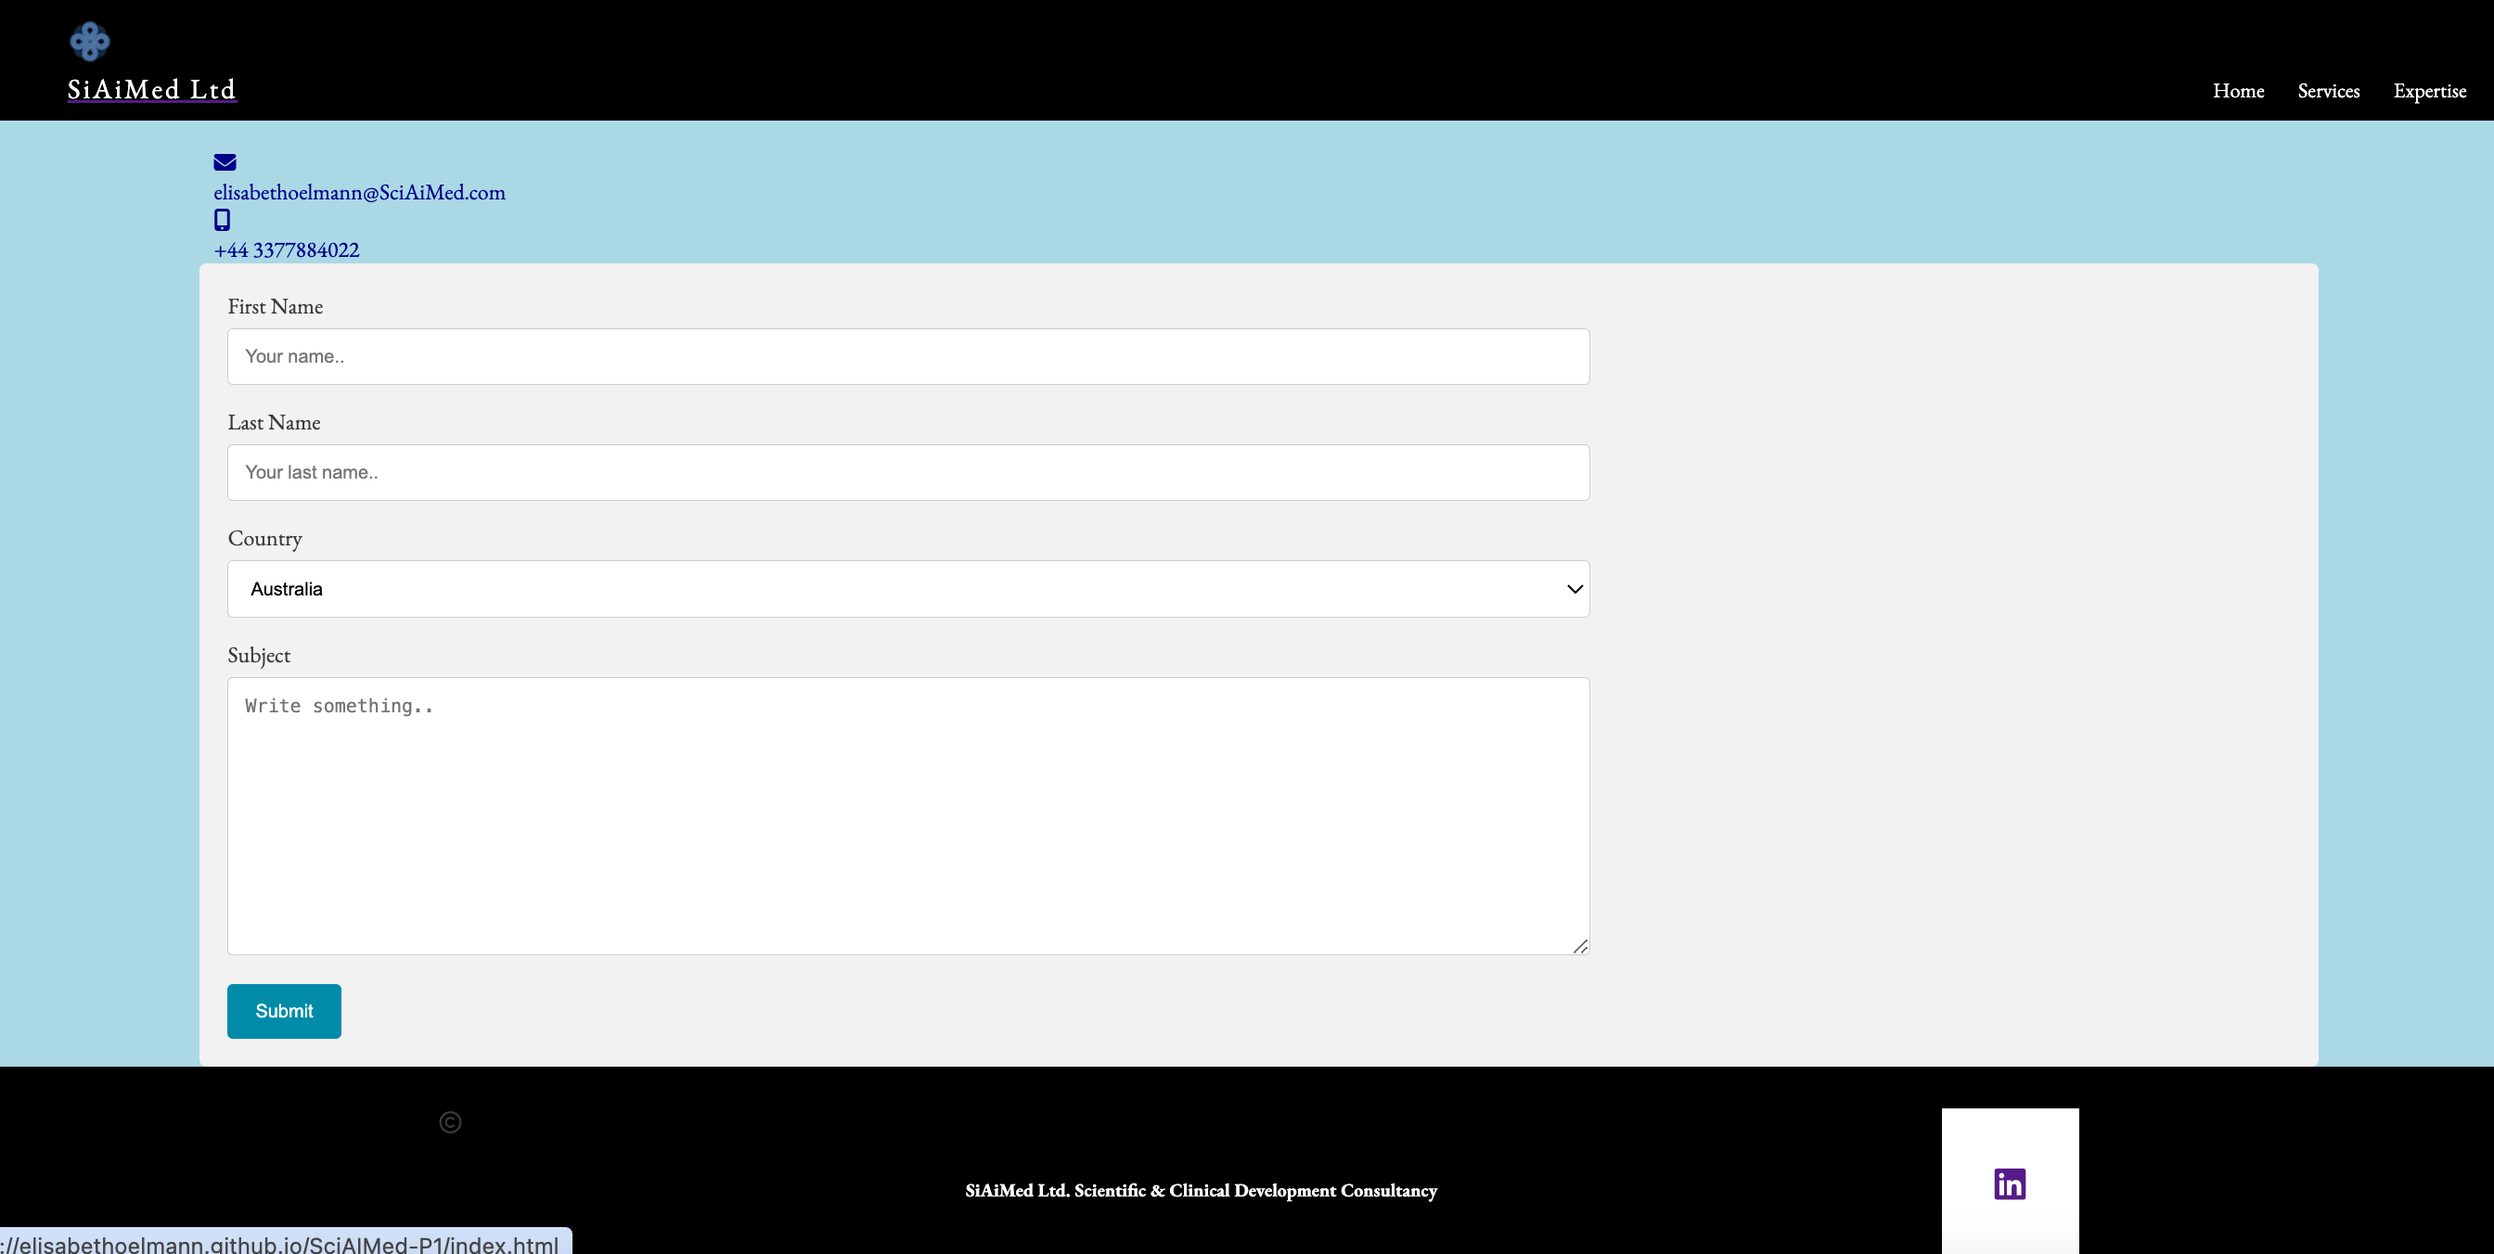
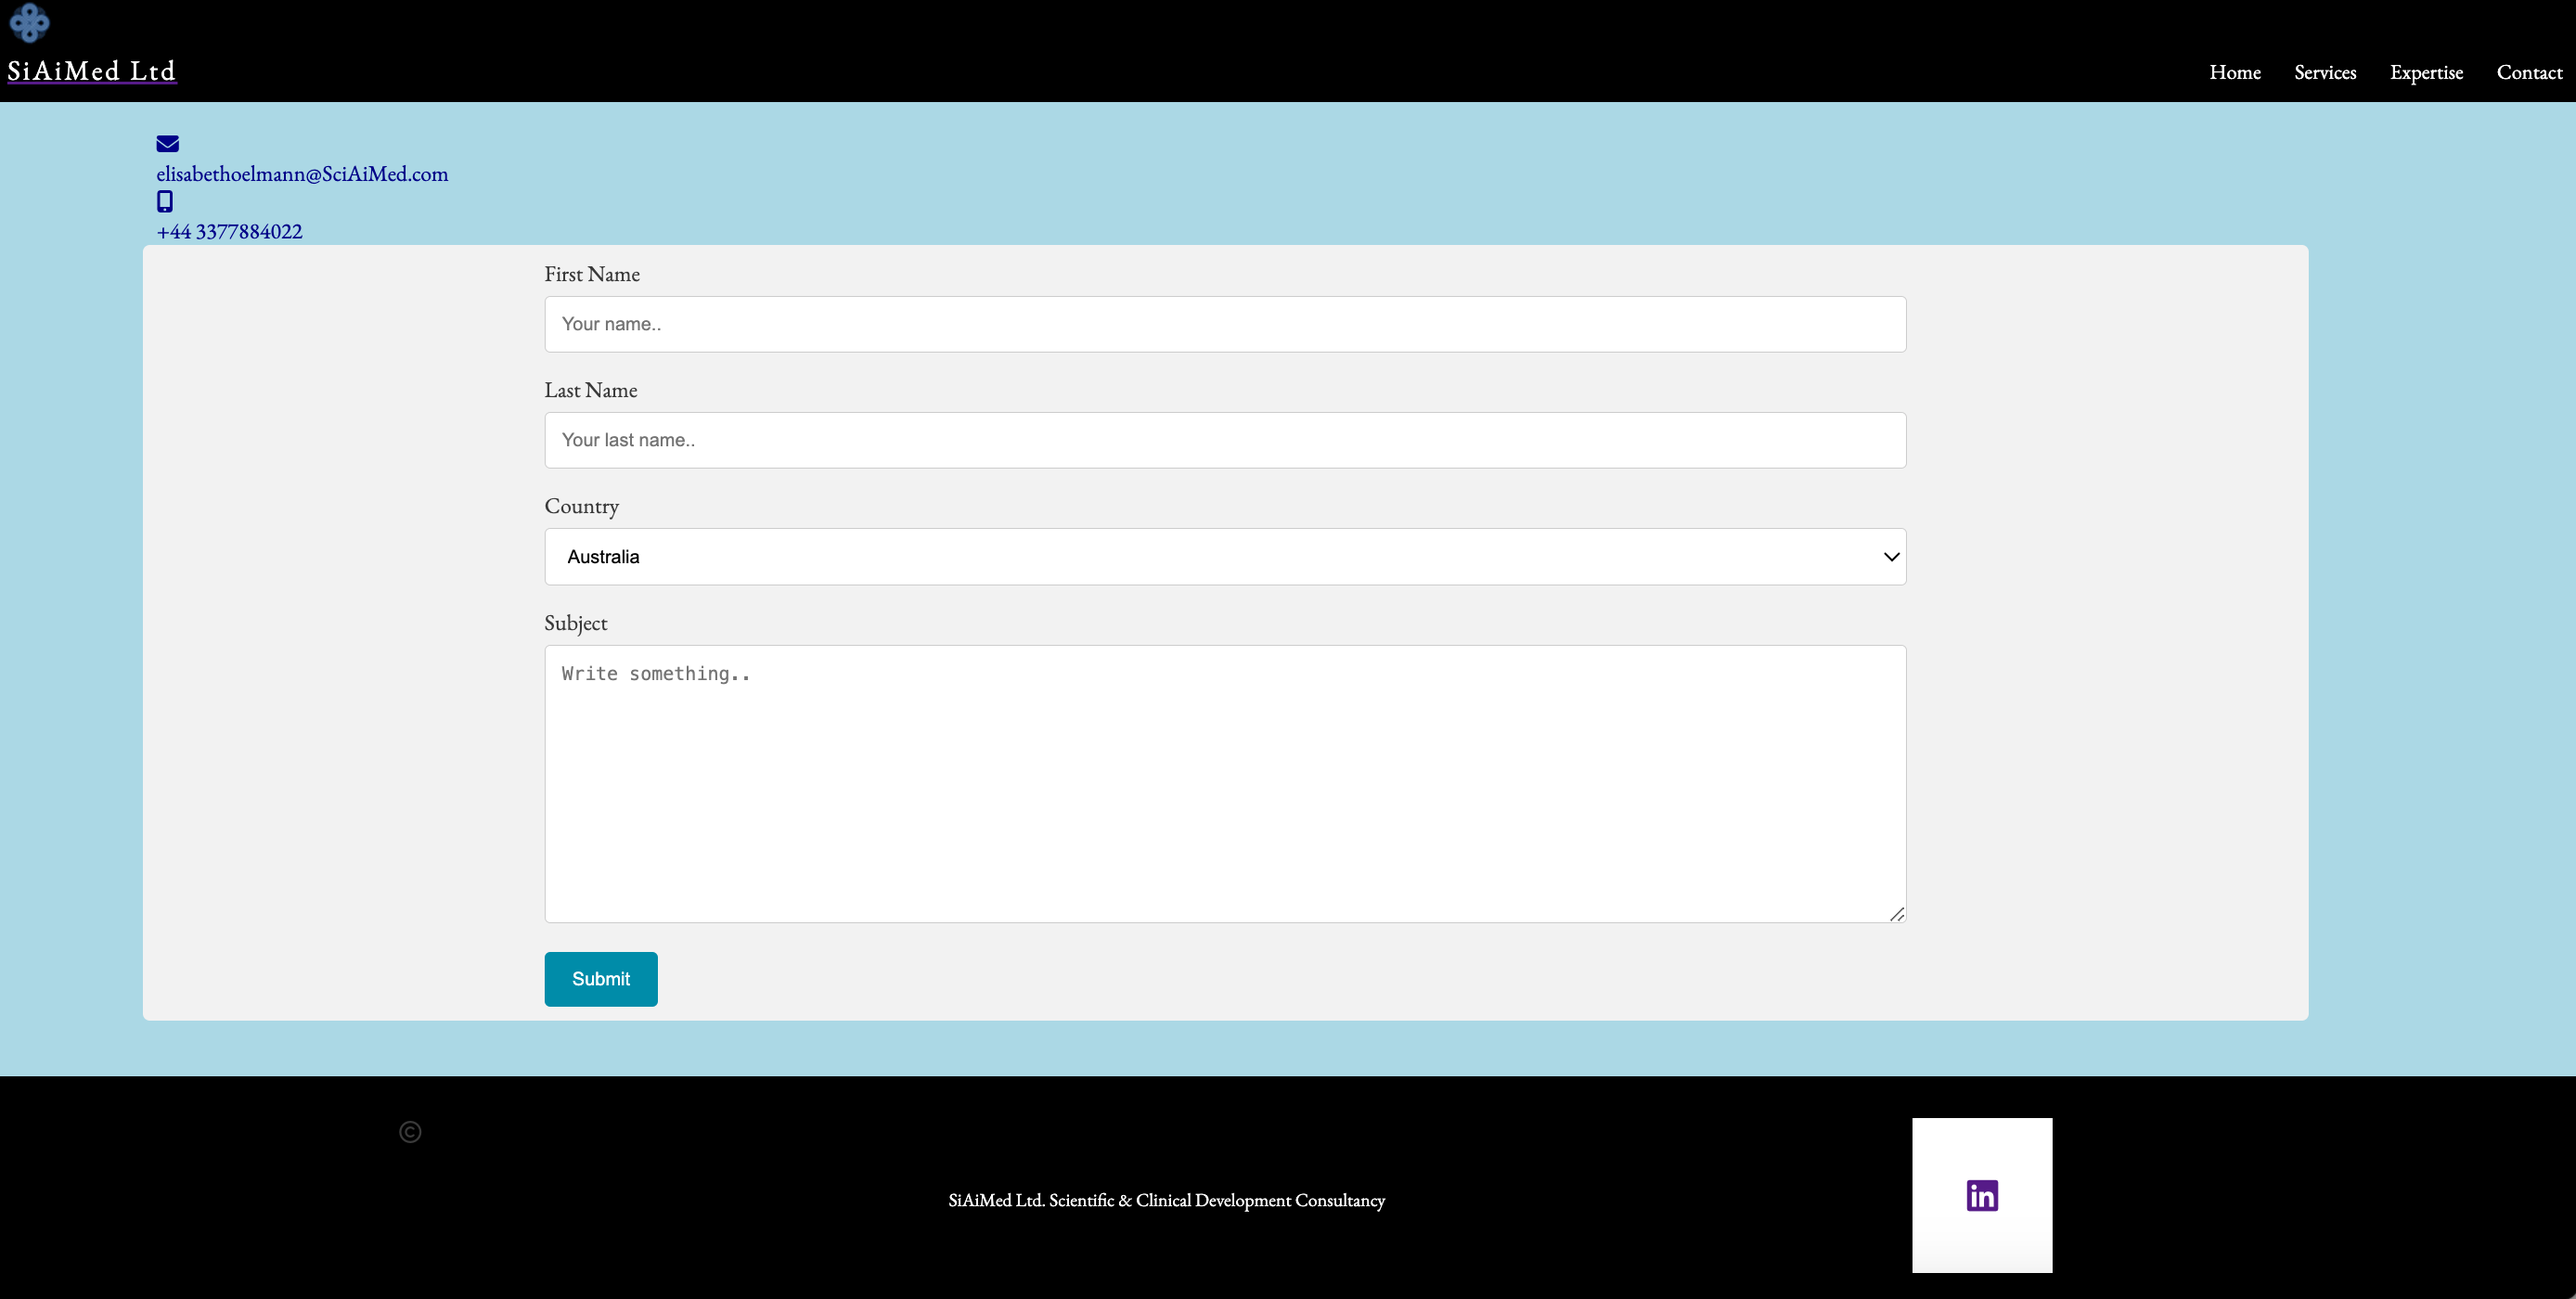
README.md images up-dated and positioning of services

diff --git a/assets/css/style.css b/assets/css/style.css
@@ -137,6 +137,8 @@ h2 {
   justify-content: space-around;
   align-items: center;
   width: 100%;
+  margin-left: auto;
+  margin-right: auto;
 }
 
 .development-left {
